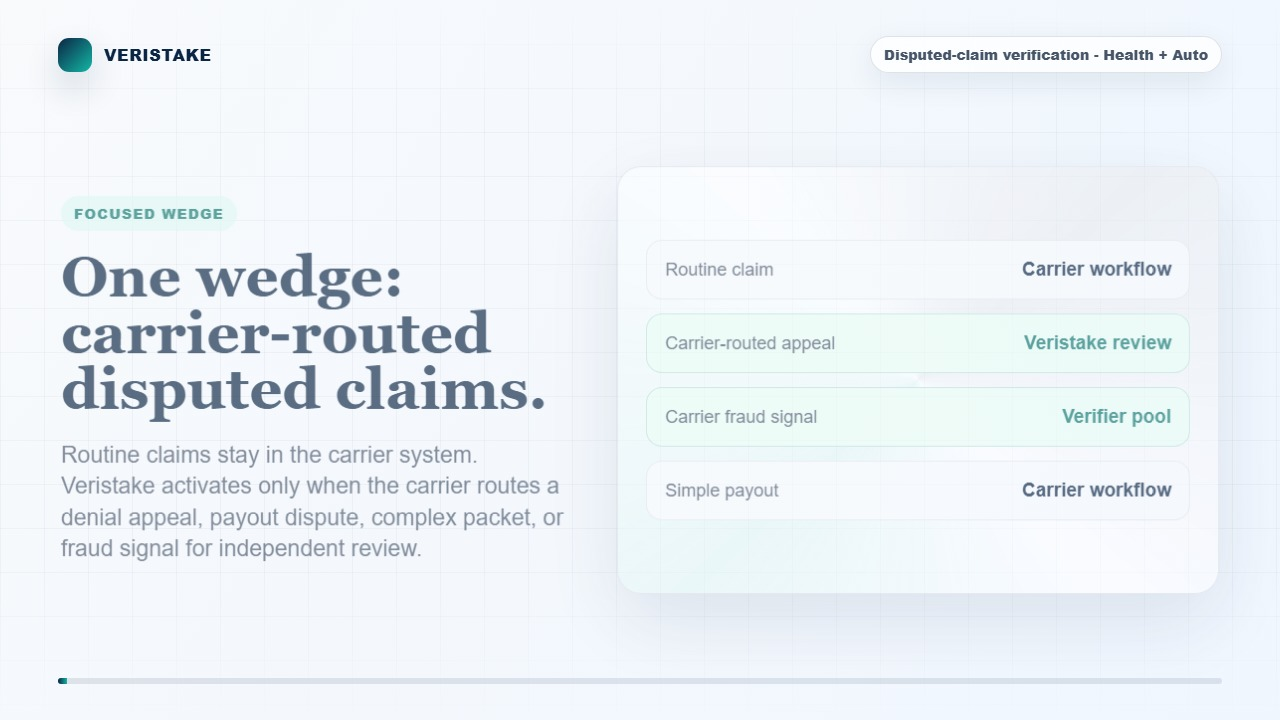
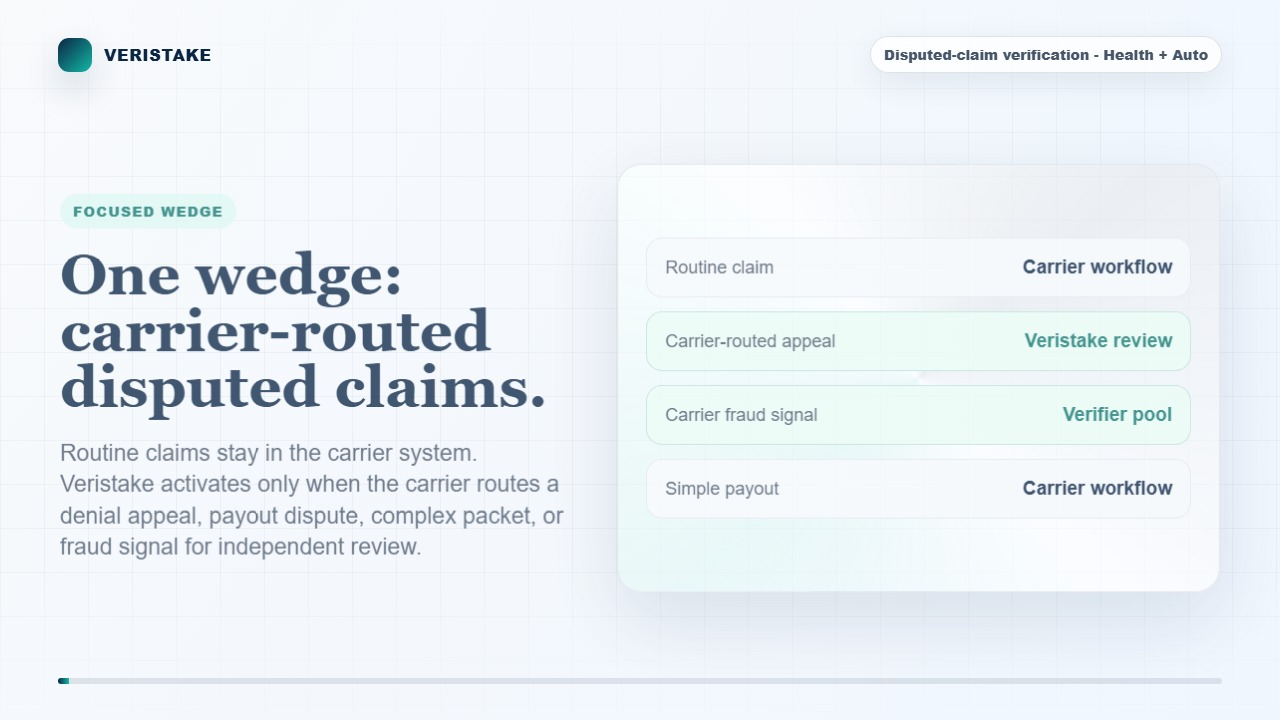
Improve walkthrough audio and sandbox status

diff --git a/veristake-demo/scripts/capture-hero-video.ts b/veristake-demo/scripts/capture-hero-video.ts
@@ -23,6 +23,7 @@ const narrationTextPath = path.join(cacheDir, "hero-narration.txt");
 const voicePath = path.join(cacheDir, "hero-voice.wav");
 const neuralVoicePath = path.join(cacheDir, "hero-voice-neural.mp3");
 const webVoicePath = path.join(cacheDir, "hero-voice-web.mp3");
+const musicPath = path.join(cacheDir, "hero-music.wav");
 const outputPath = path.join(outDir, "highlight-reel-90s.mp4");
 const webmOutputPath = path.join(outDir, "highlight-reel-90s.webm");
 const publicOutputPath = path.join(publicDir, "highlight-reel-90s.mp4");
@@ -446,6 +447,54 @@ async function getMediaDuration(filePath: string) {
   return 86;
 }
 
+async function createMusicBed(totalSeconds: number) {
+  const fadeOutStart = Math.max(0, totalSeconds - 6).toFixed(2);
+  const duration = totalSeconds.toFixed(2);
+  await run(ffmpegPath, [
+    "-y",
+    "-f",
+    "lavfi",
+    "-t",
+    duration,
+    "-i",
+    "sine=frequency=130.81:sample_rate=48000",
+    "-f",
+    "lavfi",
+    "-t",
+    duration,
+    "-i",
+    "sine=frequency=164.81:sample_rate=48000",
+    "-f",
+    "lavfi",
+    "-t",
+    duration,
+    "-i",
+    "sine=frequency=196.00:sample_rate=48000",
+    "-f",
+    "lavfi",
+    "-t",
+    duration,
+    "-i",
+    "anoisesrc=color=pink:sample_rate=48000:amplitude=0.02",
+    "-filter_complex",
+    [
+      `[0:a]volume=0.018,lowpass=f=700,afade=t=in:st=0:d=4,afade=t=out:st=${fadeOutStart}:d=6[a0]`,
+      `[1:a]volume=0.012,lowpass=f=900,afade=t=in:st=1:d=5,afade=t=out:st=${fadeOutStart}:d=6[a1]`,
+      `[2:a]volume=0.010,lowpass=f=1100,tremolo=f=0.12:d=0.25,afade=t=in:st=2:d=5,afade=t=out:st=${fadeOutStart}:d=6[a2]`,
+      `[3:a]volume=0.004,lowpass=f=450,afade=t=in:st=0:d=4,afade=t=out:st=${fadeOutStart}:d=6[a3]`,
+      "[a0][a1][a2][a3]amix=inputs=4:normalize=0,alimiter=limit=0.08[out]"
+    ].join(";"),
+    "-map",
+    "[out]",
+    "-ac",
+    "2",
+    "-ar",
+    "48000",
+    musicPath
+  ]);
+  return musicPath;
+}
+
 function sceneKeyframes(totalSeconds: number) {
   const totalWeight = scenes.reduce((sum, scene) => sum + scene.weight, 0);
   let cursor = 0;
@@ -807,17 +856,28 @@ async function recordVisuals(totalSeconds: number) {
   await run(ffmpegPath, ["-y", "-i", recordedPath, "-c:v", "copy", rawVideoPath]);
 }
 
-async function mux(audioPath: string) {
+async function mux(audioPath: string, totalSeconds: number) {
+  const bedPath = await createMusicBed(totalSeconds);
+  const fadeOutStart = Math.max(0, totalSeconds - 5).toFixed(2);
   await run(ffmpegPath, [
     "-y",
     "-i",
     rawVideoPath,
     "-i",
     audioPath,
-    "-vf",
-    "scale=1280:720,fps=30,format=yuv420p",
-    "-filter:a",
-    "loudnorm=I=-16:TP=-1.5:LRA=11,aresample=48000",
+    "-i",
+    bedPath,
+    "-filter_complex",
+    [
+      "[0:v]scale=1280:720,fps=30,format=yuv420p[v]",
+      "[1:a]loudnorm=I=-16:TP=-1.5:LRA=11,aresample=48000[narr]",
+      `[2:a]volume=0.45,afade=t=in:st=0:d=4,afade=t=out:st=${fadeOutStart}:d=5[music]`,
+      "[narr][music]amix=inputs=2:duration=longest:dropout_transition=2:normalize=0,alimiter=limit=0.95[a]"
+    ].join(";"),
+    "-map",
+    "[v]",
+    "-map",
+    "[a]",
     "-c:v",
     "libx264",
     "-profile:v",
@@ -873,10 +933,10 @@ async function main() {
   await mkdir(publicDir, { recursive: true });
   const audioPath = await createVoiceover();
   const audioDuration = await getMediaDuration(audioPath);
-  const totalSeconds = Math.max(72, Math.ceil(audioDuration + 2));
+  const totalSeconds = Math.max(90, Math.ceil(audioDuration + 2));
   console.log(`Audio duration: ${audioDuration.toFixed(1)}s; visual duration: ${totalSeconds}s`);
   await recordVisuals(totalSeconds);
-  await mux(audioPath);
+  await mux(audioPath, totalSeconds);
   await copyPublicAssets();
   console.log(`Wrote ${outputPath}`);
 }

diff --git a/veristake-demo/components/TransactionStatus.tsx b/veristake-demo/components/TransactionStatus.tsx
@@ -7,15 +7,19 @@ export function TransactionStatus({
   wait,
   pending = false,
   txHash,
-  explorerBaseUrl = "https://sepolia.basescan.org"
+  explorerBaseUrl,
+  sandbox = false
 }: {
   title: string;
   detail: string;
   wait: string;
   pending?: boolean;
   txHash?: string;
-  explorerBaseUrl?: string;
+  explorerBaseUrl?: string | null;
+  sandbox?: boolean;
 }) {
+  const canOpenExplorer = Boolean(txHash && explorerBaseUrl && !sandbox);
+
   return (
     <div className="rounded-lg border border-slate-200 bg-white p-4 dark:border-slate-800 dark:bg-slate-900">
       <div className="flex flex-wrap items-start justify-between gap-3">
@@ -34,7 +38,7 @@ export function TransactionStatus({
         </div>
         <Badge tone="blue">{wait}</Badge>
       </div>
-      {txHash ? (
+      {canOpenExplorer ? (
         <a
           href={`${explorerBaseUrl}/tx/${txHash}`}
           target="_blank"
@@ -44,6 +48,11 @@ export function TransactionStatus({
           View on explorer
           <ExternalLink className="h-4 w-4" aria-hidden="true" />
         </a>
+      ) : null}
+      {sandbox ? (
+        <p className="mt-3 inline-flex rounded-md border border-amber-200 bg-amber-50 px-2.5 py-1 text-xs font-medium text-amber-900 dark:border-amber-900 dark:bg-amber-950 dark:text-amber-100">
+          Sandbox-only event - no public explorer transaction
+        </p>
       ) : null}
     </div>
   );

diff --git a/veristake-demo/lib/demoOrchestrator.ts b/veristake-demo/lib/demoOrchestrator.ts
@@ -121,7 +121,7 @@ function phaseEvents(session: DemoSession, now = Date.now()): DemoEvent[] {
     {
       atMs: 88000,
       label: "Payout released",
-      detail: "Carrier reserve released funds to the claimant in the demo sandbox.",
+      detail: "Carrier reserve marked the approved policyholder payout in the demo sandbox.",
       txHash: fakeTxHash(`${session.id}-payout`)
     }
   ];
@@ -226,6 +226,7 @@ export function serializeSession(session: DemoSession) {
     ...session,
     phase: currentPhase(session),
     events: phaseEvents(session),
-    explorerBaseUrl: process.env.NEXT_PUBLIC_EXPLORER_BASE_URL || "https://sepolia.basescan.org"
+    isSandbox: true,
+    explorerBaseUrl: null
   };
 }

diff --git a/veristake-demo/app/demo/carrier/page.tsx b/veristake-demo/app/demo/carrier/page.tsx
@@ -14,7 +14,8 @@ import { carrierScenario } from "@/lib/scenarios";
 
 type ApiSession = {
   id: string;
-  explorerBaseUrl: string;
+  explorerBaseUrl?: string | null;
+  isSandbox?: boolean;
   events: Array<{ label: string; detail: string; txHash?: string }>;
 };
 
@@ -153,6 +154,7 @@ export default function CarrierDemoPage() {
               pending={loading || policyLoading}
               txHash={latestEvent?.txHash}
               explorerBaseUrl={session?.explorerBaseUrl}
+              sandbox={Boolean(latestEvent && (session?.isSandbox ?? true))}
             />
           </div>
 

diff --git a/veristake-demo/app/demo/claimant/page.tsx b/veristake-demo/app/demo/claimant/page.tsx
@@ -16,7 +16,8 @@ import { formatUsd } from "@/lib/utils";
 type ApiSession = {
   id: string;
   phase: string;
-  explorerBaseUrl: string;
+  explorerBaseUrl?: string | null;
+  isSandbox?: boolean;
   events: Array<{ label: string; detail: string; txHash?: string }>;
 };
 
@@ -187,6 +188,7 @@ export default function ClaimantDemoPage() {
               pending={loading}
               txHash={latestEvent?.txHash}
               explorerBaseUrl={session?.explorerBaseUrl}
+              sandbox={Boolean(latestEvent && (session?.isSandbox ?? true))}
             />
           </div>
         </div>

diff --git a/veristake-demo/app/demo/verifier/page.tsx b/veristake-demo/app/demo/verifier/page.tsx
@@ -22,7 +22,6 @@ export default function VerifierDemoPage() {
   const [domain, setDomain] = useState<Domain>("HEALTH");
   const [step, setStep] = useState(1);
   const [votes, setVotes] = useState<VoteState>({});
-  const [txHash, setTxHash] = useState<string | undefined>();
   const [staking, setStaking] = useState(false);
   const claims = verifierScenarios[domain];
   const fraudClaim = claims.find((claim) => claim.fraudTrigger);
@@ -41,7 +40,6 @@ export default function VerifierDemoPage() {
       headers: { "Content-Type": "application/json" },
       body: JSON.stringify({ address: demoWallet })
     });
[1 lines of base64/hex data omitted]
     setStep(2);
     trackEvent("demo_step_completed", { persona: "verifier", step_index: 2 });
     setStaking(false);
@@ -183,7 +181,7 @@ export default function VerifierDemoPage() {
               }
               wait={step === 1 ? "Ready" : "About 30 sec"}
               pending={staking}
-              txHash={txHash}
+              sandbox={step > 1}
             />
             {step === 3 ? <SlashingEventTicker compact source="sandbox" /> : null}
           </div>

diff --git a/veristake-demo/app/page.tsx b/veristake-demo/app/page.tsx
@@ -187,7 +187,7 @@ export default function LandingPage() {
               {[
                 [ShieldCheck, "Control stays with the carrier", "Policies, reserves, payouts, and final integration rules remain carrier-owned."],
                 [ClipboardCheck, "Independent review is available on demand", "Disputed packets move to credentialed reviewers with a visible decision path."],
-                [Timer, "Audit-ready outcomes replace opaque queues", "Every demo action shows what happened, expected wait time, and an explorer link."]
+                [Timer, "Audit-ready outcomes replace opaque queues", "Every demo action shows what happened, expected wait time, and either a sandbox marker or an explorer link when a public transaction exists."]
               ].map(([Icon, title, copy]) => {
                 const TypedIcon = Icon as typeof ShieldCheck;
                 return (